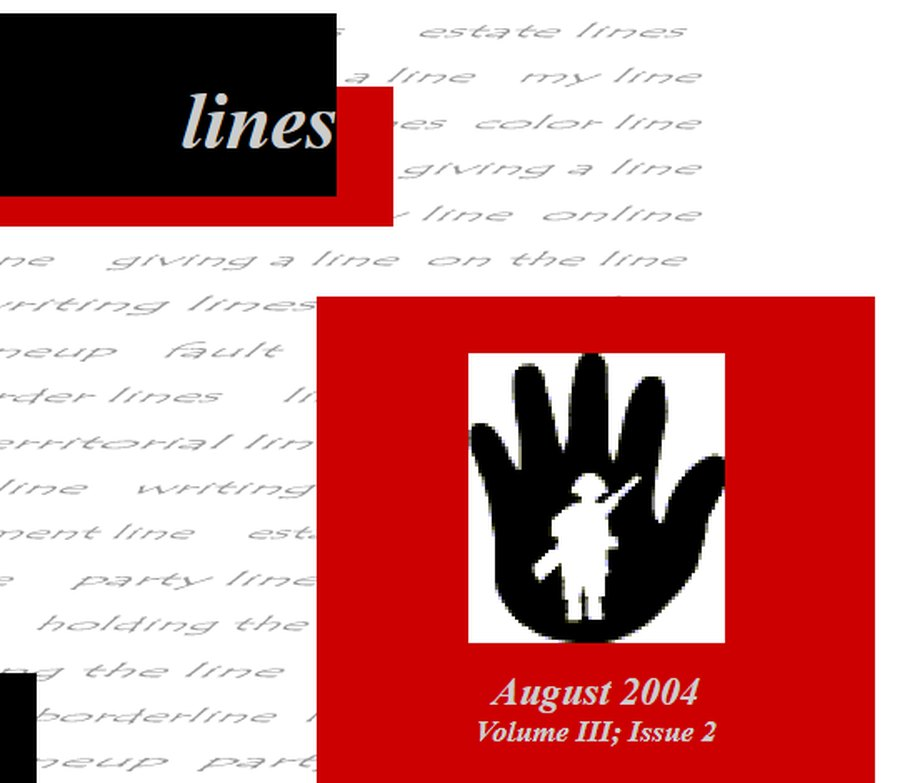
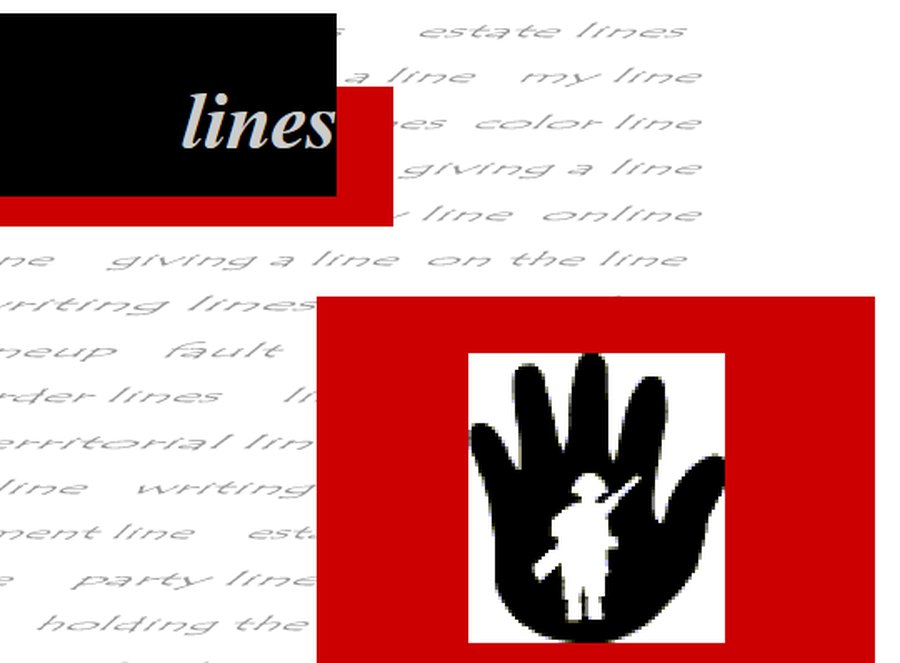
Homepage: August 2004 picture without the issue date
The picture shows the masthead and logo only, and its alt text no longer names the issue. The Archives thumbnail is unchanged.

diff --git a/index.html b/index.html
@@ -28,7 +28,7 @@
       <figure class="slide" style="--i:6"><img src="images/covers/07-nov2003.jpg" alt="Cover of lines, November 2003"></figure>
       <figure class="slide" style="--i:7"><img src="images/covers/08-feb2004.jpg" alt="Cover of lines, February 2004"></figure>
       <figure class="slide" style="--i:8"><img src="images/covers/09-may2004.jpg" alt="Cover of lines, May 2004"></figure>
-      <figure class="slide" style="--i:9"><img src="images/covers/10-aug2004.jpg" alt="Cover of lines, August 2004"></figure>
+      <figure class="slide" style="--i:9"><img src="images/covers/10-aug2004.jpg" alt="Cover art from lines magazine"></figure>
     </div>
     <div class="hero-inner">
       <h1 class="ticker" aria-label="Lines of dissent"><span class="track" aria-hidden="true"><span>Lines of dissent&nbsp;&nbsp;·&nbsp;&nbsp;</span><span>Lines of dissent&nbsp;&nbsp;·&nbsp;&nbsp;</span></span></h1>
